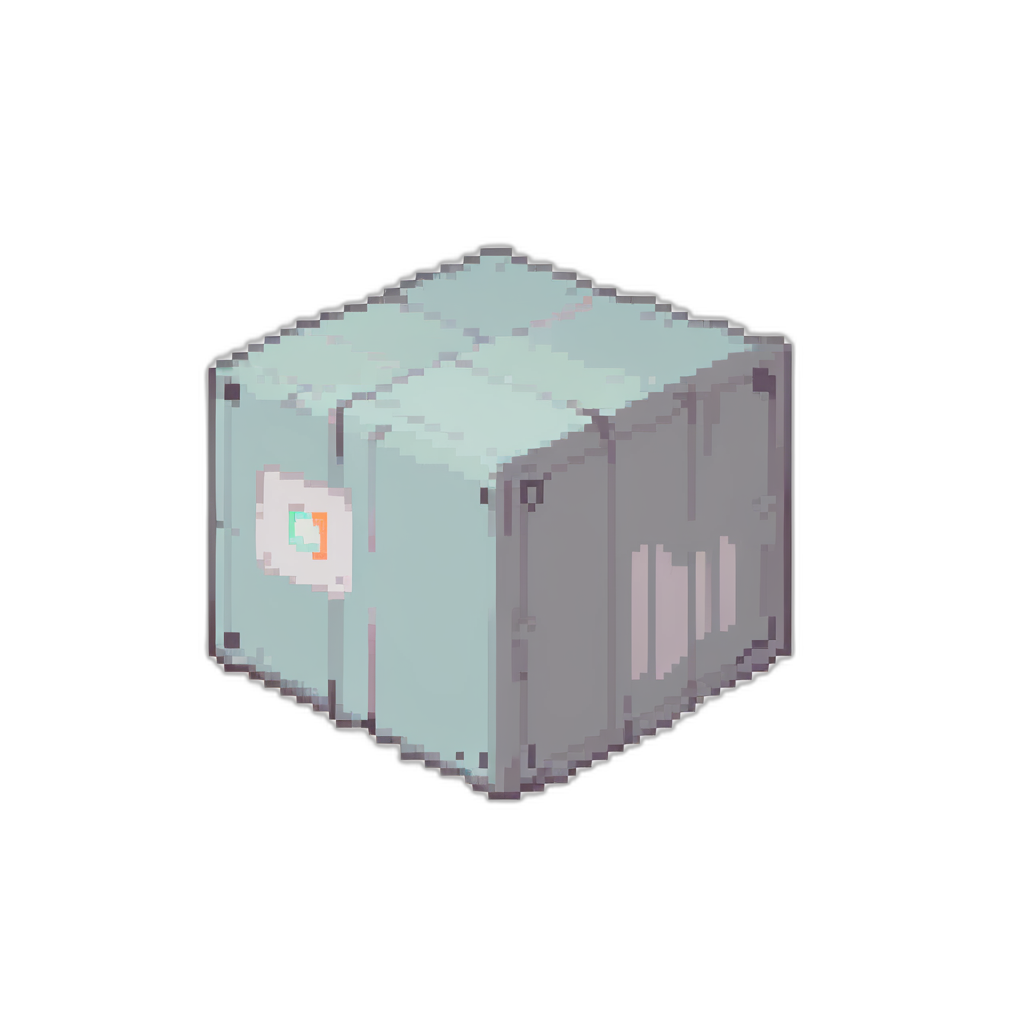
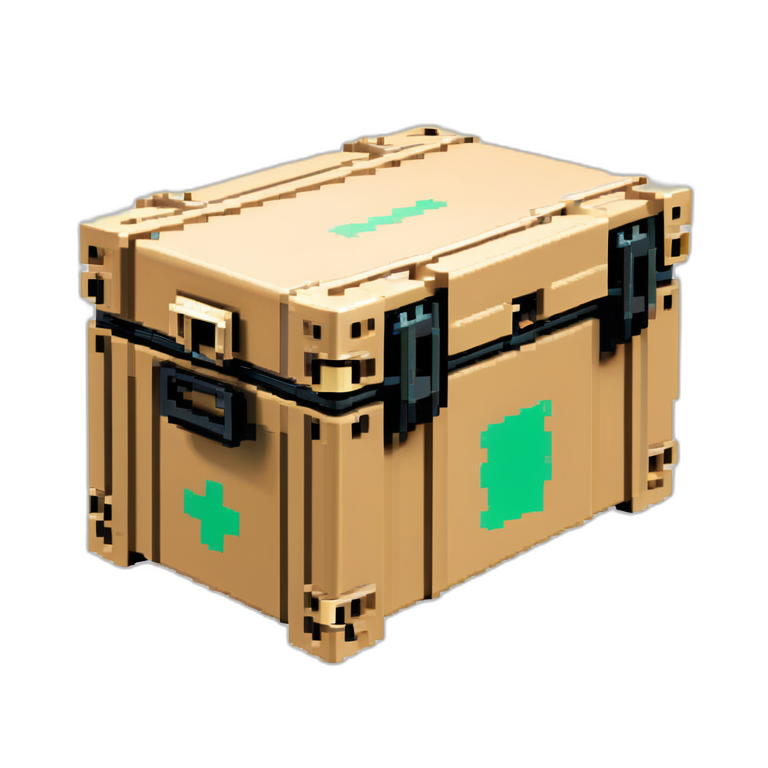
fix(art): the prop defect was the CHECKPOINT, not the prompts
Converged cargo-crate one knob at a time against a FIXED seed set, so every
number below is a comparison and not a preference.

    anything-xl     1/8 clean single crates
    juggernautXL    8/8      <- one change
                    8/8      <- again, on 8 completely fresh seeds

`anything-xl` is an ANIME model, and anime models compose busy, multi-object,
sprite-sheet-like scenes. That is why "a cargo crate" kept returning a
warehouse, a stack, or a literal 4x3 GRID. Every negative-prompt fix aimed at
this -- NEG_STACK, an anti-grid trim, the tombstone list, the ground-plinth
wording -- was treating a symptom of the wrong base model, and none of them
moved the number.

Scoped to props via PROP_CKPT rather than changing the pack default: chars,
tiles and items were authored against the anime base and would drift if it moved
under them. build_graph grows optional ckpt/cfg/steps overrides to allow it.

Also kept: CFG 3.5 -> 7.0 (worth 1/8 alone, still worth the last seed here),
SIZE 1024 -> 768 (same hit rate, chunkier and more readable at the 32px
footprint). Tested and REVERTED: LoRA weight 0.6 (mushy edges), CFG back to 3.5
(7/8, softer).

Separately, a post-only fix: the ramp's near-white top entry plus a loose accent
quantile blew the crate's lit face out to white speckled with green, which at
32px read as SNOW on the lid -- the exact defect the props were being rescued
from. Softened the top and tightened the accent to a status light.
[…]

diff --git a/scripts/assets/exp_props.py b/scripts/assets/exp_props.py
@@ -64,6 +64,31 @@ import generate as G  # noqa: E402
 
 OUT = Path(os.environ.get("EXP_OUT", "D:/tmp/props-gen"))
 
+# THE FLOW, and the measurement that set it. Converged one knob at a time on
+# cargo-crate against a FIXED seed set, so each number below is a comparison and
+# not a preference.
+#
+#   THE CHECKPOINT WAS THE WHOLE DEFECT. The pack default is `anything-xl`, an
+#   ANIME model, and anime models compose busy multi-object scenes -- so "a
+#   cargo crate" came back as a warehouse, a stack, or a literal sprite-sheet
+#   GRID of crates in roughly half of all seeds. On a fixed 8-seed set:
+#       anything-xl            1/8 clean single crates
+#       juggernautXL           8/8   <- one change, and 8/8 again on 8 FRESH seeds
+#   Every negative-prompt fix aimed at this (NEG_STACK, an anti-grid trim, the
+#   whole tombstone list) was treating a symptom of the wrong base model. Do not
+#   re-derive them; they cost a night and none of them moved the number.
+#
+#   CFG 3.5 -> 7.0 was worth 1/8 on its own and is still worth the last seed
+#   with juggernaut (8/8 vs 7/8). SIZE 1024 -> 768 does not change the hit rate
+#   but makes the hits chunkier and more readable at the 32px footprint.
+#   LoRA weight 1.0 -> 0.6 was tested and was WORSE (mushy edges); left at 1.0.
+#
+# Scoped to props deliberately: chars/tiles/items were authored against the
+# anime base and would drift if the default moved under them.
+PROP_CKPT = "SDXL1.0\\juggernautXL_juggXIByRundiffusion.safetensors"
+PROP_CFG = 7.0
+PROP_SIZE = 768
+
 
 
 def spec(name: str) -> dict:
@@ -90,7 +115,8 @@ def generate(names: list[str], tag: str, seeds: int, base_seed: int) -> None:
             seed = base_seed + i
             # refs deliberately omitted -- see module docstring.
             g = comfy.build_graph(pos=s["pos"], neg=s["neg"], seed=seed, batch=1,
-                                  prefix=f"prop-{name}")
+                                  prefix=f"prop-{name}", ckpt=PROP_CKPT,
+                                  cfg=PROP_CFG, size=PROP_SIZE)
             print(f"  {name} seed {seed} ...", flush=True)
             try:
                 got = comfy.run(g, str(dest))

diff --git a/scripts/assets/comfy.py b/scripts/assets/comfy.py
@@ -62,6 +62,9 @@ def build_graph(
     alpha: bool = True,
     prefix: str = "swampspace",
     size: int | None = None,
+    ckpt: str | None = None,
+    cfg: float | None = None,
+    steps: int | None = None,
     control: str | None = None,
     controlnet: str | None = None,
     cn_strength: float = 1.0,
@@ -79,7 +82,13 @@ def build_graph(
     "DepthAnythingV2Preprocessor"). `cn_union_type` sets the mode on a union
     controlnet (xinsir/promax)."""
     size = size or SIZE
-    g = {"1": {"class_type": "CheckpointLoaderSimple", "inputs": {"ckpt_name": CKPT}}}
+    # Per-CATEGORY overrides. Props needed a different base model than the rest
+    # of the pack and this is how that is expressed without changing the default
+    # for chars/tiles/items, which were all authored against the anime base and
+    # would drift if it moved under them. See PROP_CKPT in exp_props.py for the
+    # measurement that forced it.
+    g = {"1": {"class_type": "CheckpointLoaderSimple",
+               "inputs": {"ckpt_name": ckpt or CKPT}}}
     model, clip = ["1", 0], ["1", 1]
     if LORA:
         g["2"] = {
@@ -150,7 +159,8 @@ def build_graph(
         positive, negative = ["64", 0], ["64", 1]
     g["6"] = {"class_type": "KSampler",
               "inputs": {"model": model, "positive": positive, "negative": negative,
-                         "latent_image": latent, "seed": seed, "steps": STEPS, "cfg": CFG,
+                         "latent_image": latent, "seed": seed,
+                         "steps": steps or STEPS, "cfg": CFG if cfg is None else cfg,
                          "sampler_name": SAMPLER, "scheduler": SCHED, "denoise": denoise}}
     g["7"] = {"class_type": "VAEDecode", "inputs": {"samples": ["6", 0], "vae": ["1", 2]}}
     out = ["7", 0]

diff --git a/scripts/assets/install_props.py b/scripts/assets/install_props.py
@@ -53,11 +53,17 @@ CURATED: dict[str, dict] = {
     # Hue is picked for room-legibility against the other five: desk warm tan,
     # cabinet teal, barrel rust, locker olive, screen neutral -- so the crate
     # takes a cooler steel-blue, with the prompt's green status light as accent.
+    # The ramp's top entry is deliberately NOT near-white. At #dce9f2 with
+    # accent_q .985 the crate's lit top face blew out to white speckled with
+    # green and read, at 32px, as SNOW or moss sitting on the lid -- the exact
+    # look the props were being rescued from. Dropping the top two entries and
+    # tightening the accent quantile keeps the green as a status light instead
+    # of scatter. Tested on the same raws, no regeneration needed.
     "cargo-crate": dict(
-        tag="s2", seed=4010, dst="cargo-crate.png",
+        tag="iter/jugg", seed=7006, dst="cargo-crate.png",
         ramp=["#08080c", "#0f1a26", "#16293d", "#1f3c58", "#2b5375",
-              "#3d6f96", "#5b91b5", "#8ab4d0", "#dce9f2"],
-        accent="#46e078", accent_q=0.985,
+              "#3d6f96", "#5b91b5", "#7ea6c2", "#b9d2e2"],
+        accent="#46e078", accent_q=0.995,
     ),
     "work-desk": dict(
         tag="s2", seed=4010, dst="work-desk.png",
